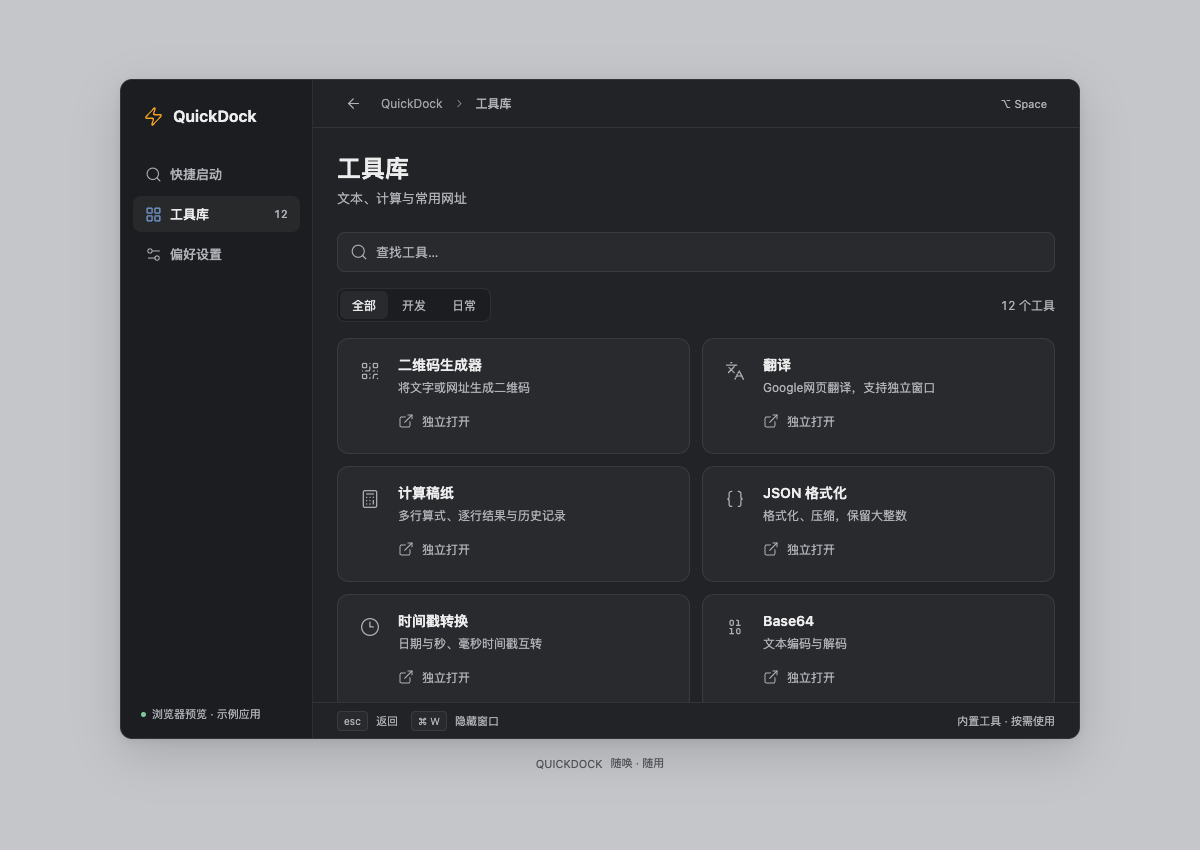
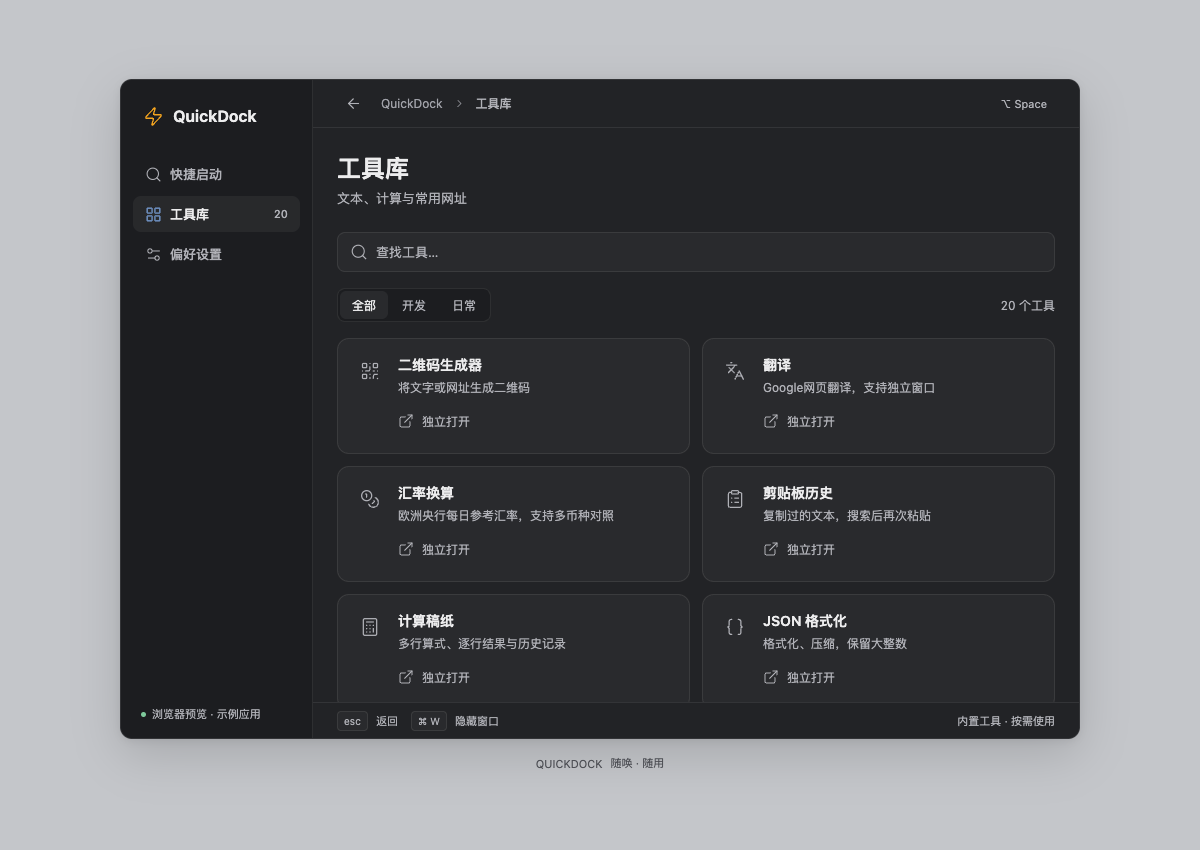
Document launcher essentials and refresh screenshots
The README covers launch at login, search keywords, file search,
secondary actions, clipboard history, backups and the six new tools.
The validation record lists what was verified natively and what still
needs an installed build or Windows and Linux hardware.

diff --git a/README.md b/README.md
@@ -4,7 +4,7 @@
 
 支持简体中文、日本語、English、繁體中文、Español，默认跟随系统；可在偏好设置切换，保留工具输入。
 
-当前 `online` 分支包含二维码生成器、应用自动索引、Dock 重开清空搜索及应用拼音／英文搜索增强。这些更新尚未发布为新版本；公开稳定版仍为 v0.1.4。
+当前开发分支在 `online` 之上新增开机自启动、剪贴板历史、搜索关键词、文件搜索、结果次级操作、配置导入导出，以及正则、JWT、颜色、进制、文本对比、Cron 六个开发工具。这些更新尚未发布为新版本；公开稳定版仍为 v0.1.4。
 
 ## 本地运行
 
@@ -21,17 +21,21 @@ open /Applications/QuickDock.app
 - macOS／Windows／Linux X11 唤起跟随鼠标所在屏幕；Wayland 由桌面系统安排窗口位置。
 - 空搜索展示最近使用的应用／工具，方向键选择，Enter 执行；支持中文、全拼、拼音首字母、英文名及英文缩写；例如微信可输入 `weixin`／`wx`／`wechat`，系统设置可输入 `xtsz`／`systemsettings`。支持空格、大小写与全角输入；网址仍支持别名。
 - 输入无应用匹配时，提供 Google 搜索与翻译快捷项；搜索使用默认浏览器，翻译保留在当前 Dock。设置可分别关闭这两个入口。
+- 搜索关键词：常用网址的 URL 含 `{query}`（或粘贴浏览器式 `%s`）即成为关键词，例如别名 `gh` + `https://github.com/search?q={query}`，在 Dock 输入 `gh rust` 直接搜索；只输入 `gh` 时 Enter／Tab 补全为 `gh `。设置中提供 GitHub、百度、Bing、Wikipedia 等常用搜索预设。
+- 文件搜索：输入 `f 名称`（或 `find`／`文件`）搜索主目录中的文件，Enter 用默认应用打开。macOS 使用 Spotlight，Windows 使用 Windows Search 索引，Linux 使用 plocate／locate；隐藏目录、`node_modules` 和 `~/Library` 等缓存不显示。若 `f` 已是某个网址关键词，则关键词优先。
+- 次级操作：`⌘↵`（Windows／Linux 为 `Ctrl+↵`）在访达／资源管理器中显示应用或文件，对网址则复制链接；底部提示当前所选项的操作。
 - 顶部设置按钮或 `⌘ ,` 进入设置；底部“全部工具”进入工具库。
 - 工具页占满窗口，不展示应用侧边栏和导航。Esc 回紧凑 Dock，Dock 再按 Esc 隐藏；独立工具 Esc 保存后关闭。`⌘ W` 隐藏；重新唤起清空搜索并回到紧凑 Dock，工具草稿仍在本次会话保留。
 - 启动器失焦隐藏；工具和设置失焦保留。菜单栏闪电图标 可打开、刷新索引或退出。
 - 每 3 秒轻量检查应用安装目录，新增、移除或更新入口后自动刷新索引；唤起时立即检查，5 分钟兜底同步，手动刷新仍可用。
 - 重复启动只唤起原实例。
+- 设置中可开启开机自动启动：macOS 通过 `SMAppService` 登记（需在“系统设置 › 登录项”允许时会提示并给出入口，应用须位于“应用程序”文件夹），Windows 写入当前用户 `Run` 项，Linux 写入 `~/.config/autostart/quickdock.desktop`。开机启动时保持隐藏，不弹出窗口。
 
 macOS `.app` 使用 ad-hoc 签名，不含 Developer ID 签名或公证。内置自动更新检查与手动下载安装，发布包校验 SHA256；详情见 [自动更新](docs/UPDATES.md)。无需前端开发服务器即可运行。
 
 ![原生启动面板](docs/screenshots/07-native-launcher.png)
 
-## 十三类内置工具
+## 二十类内置工具
 
 | 工具 | 已实现功能 |
 | --- | --- |
@@ -47,7 +51,14 @@ macOS `.app` 使用 ad-hoc 签名，不含 Developer ID 签名或公证。内置
 | 文本哈希 | MD5、SHA1、SHA256、SHA512 |
 | 单位换算 | 长度、质量、温度、面积、体积、速度、容量；十进制／二进制分别标明 |
 | 文本处理 | 大小写、逐行 trim、删空行、去重、自然排序、Unicode 字符／行／UTF-8 字节统计 |
-| 常用网址 | 名称、URL、别名增删改；搜索和默认浏览器打开；仅 HTTP(S) |
+| 常用网址 | 名称、URL、别名增删改；搜索和默认浏览器打开；仅 HTTP(S)；URL 含 `{query}` 时成为搜索关键词，提供常用搜索预设 |
+| 剪贴板历史 | 默认关闭，开启后记录复制的文本（最多200条，单条≤100KB），搜索、固定（最多50条）、单条删除、清空未固定项；Enter 写回剪贴板并隐藏 Dock 以便粘贴；跳过密码管理器标记为隐藏的内容 |
+| 正则测试 | JavaScript 正则，匹配高亮、编号与命名分组、`$1`／`$<name>` 替换预览；在后台 Worker 中匹配，3 秒超时防止灾难性回溯卡死 |
+| JWT 解码 | 头部／载荷格式化（保留大整数）、算法、iat／nbf／exp 时间与过期状态；只解码不验签，支持 Bearer 前缀，拒绝 JWE |
+| 颜色转换 | 任意 CSS 颜色（HEX、rgb()、hsl()、oklch()、颜色名），输出 HEX／RGB／HSL／OKLCH，取色器，白底／黑底 WCAG 对比度与等级 |
+| 进制转换 | 任意大小整数（BigInt），自动识别 0x／0o／0b，二、八、十、十六、三十六进制互转，分组显示、复制无空格 |
+| 文本对比 | Myers 逐行差异，双侧行号，可忽略空白差异，交换左右；最多20000行／2000处差异 |
+| Cron 表达式 | 5 段标准语法（名称、列表、范围、步长、@daily 等宏），字段解析，按本地或 UTC 预览接下来 10 次运行；日期与星期同时限定时按 Vixie 规则“满足其一” |
 
 没有外部插件 SDK、商店或 uTools 兼容层。新增内置工具通过 `frontend/src/catalog.ts` 的 `ToolDefinition` 注册，纯转换逻辑在 `frontend/src/tools/` 中。
 
@@ -61,6 +72,8 @@ Windows 读取开始菜单／桌面快捷方式和已注册应用，ShellExecute
 - 配置和使用记录：`~/Library/Application Support/QuickDock/settings.json`。
 - 应用缓存：同目录 `apps.json`。JSON 带版本，原子写入；损坏配置保留 `.corrupt-时间戳` 备份并恢复默认，未知未来版本禁止覆盖。
 - Dock内普通工具未保存的输入仅保留本次会话；独立窗口输入自动保存到`tool-windows/`；内部内存回收通过当前 WebView 会话历史临时传递草稿。
+- 剪贴板历史写入同目录 `clipboard.json`（仅在开启后），版本化原子 JSON，最多200条、约4MiB；macOS／Windows 轮询系统剪贴板变更计数，只在复制后读取，开启前已在剪贴板的内容不记录；Linux 每1.5秒比较文本，Wayland 下可能只在 QuickDock 获得焦点时可读。
+- 配置导入导出：设置页“备份与迁移”导出语言、外观、快捷键、工具开关、常用网址和世界时钟；使用记录与各类历史不导出。导入前确认，快捷键在本机不可用时保留当前快捷键。
 - 明确保存的计算历史写入同目录 `calculations.json`，版本化原子JSON，最多100份／约8MiB。单稿纸最多200行／20000字符，重启后保留；浏览器预览历史独立保存在localStorage。
 - 翻译通过原生WebView直接展示Google翻译网页，网页内输入交给Google处理；不再调用公共翻译API。独立页保存当前原文／语言，Google网页可能要求网站验证。详见[网页翻译验证](docs/GOOGLE-WEB-VALIDATION.md)。
 - 浏览器预览明确使用示例应用，不能启动本机应用。原生版本通过 Wails 生成的类型绑定调用 Go。
@@ -81,7 +94,7 @@ pnpm --dir frontend install --frozen-lockfile
 
 ```sh
 pnpm --dir frontend dev                 # 浏览器预览，127.0.0.1:3415
-pnpm --dir frontend test                # 30 项逻辑测试
+pnpm --dir frontend test                # 57 项逻辑测试
 pnpm --dir frontend test:e2e            # Chrome 交互及搜索性能
 MACOSX_DEPLOYMENT_TARGET=13.0 \
 CGO_CFLAGS='-mmacosx-version-min=13.0' \
@@ -102,7 +115,7 @@ swift scripts/native-smoke.swift <QuickDock进程PID> "$PWD/bin/QuickDock.app/Co
 具体通过项、测量口径和未完成的人工验收见 [验证记录](docs/VALIDATION.md)。
 
 
-Dock翻译及计算历史的新增验收、截图和网络边界见 [新增功能验证](docs/ONLINE-NOTEBOOK-VALIDATION.md)。
+Dock翻译及计算历史的新增验收、截图和网络边界见 [新增功能验证](docs/ONLINE-NOTEBOOK-VALIDATION.md)。开机启动、剪贴板历史、文件搜索与六个开发工具的验证见 [启动器增强验证](docs/LAUNCHER-ESSENTIALS-VALIDATION.md)。
 
 ### 独立工具窗口
 

diff --git a/docs/LAUNCHER-ESSENTIALS-VALIDATION.md b/docs/LAUNCHER-ESSENTIALS-VALIDATION.md
@@ -1,0 +1,24 @@
+# 启动器增强与开发工具
+
+2026-11-20，本地开发验证，分支 `feat/launcher-essentials`；未创建新版本标签或发布 Release。
+
+本轮新增：开机自启动、搜索关键词（`{query}` 网址）、结果次级操作（`⌘↵`／`Ctrl+↵`）、剪贴板历史（默认关闭）、文件搜索（`f 名称`）、配置导入导出，以及正则测试、JWT 解码、颜色转换、进制转换、文本对比、Cron 表达式六个工具。内置工具由十三类增至二十类，五种界面语言同步补齐。
+
+验证：
+
+- 57 个 Vitest 测试通过。新增覆盖：关键词 URL 规范化与转义、域名中占位符拒绝、关键词优先于句子翻译；剪贴板排序与搜索；正则分组／替换／零宽匹配；JWT Base64URL、大整数、过期判断与 JWE 拒绝；颜色 HEX／rgb／hsl 解析、OKLCH 已知值与 WCAG 对比度；BigInt 进制与前缀歧义；文本对比 300 轮随机输入校验可还原两侧文本且编辑数等于 LCS 最小值；Cron 名称、步长、Vixie 日期／星期规则、UTC 跨周末与“2 月 30 日永不运行”。
+- 40 个 Playwright 场景全量通过（本地 Chrome）。新增：六个工具的交互；正则灾难性回溯在 V8 中由 Worker 3 秒超时中止；关键词 Tab 补全、搜索行选中与打开地址；剪贴板开启前不记录、开启后记录 QuickDock 复制并可固定；配置导出文件不含使用记录，导入后常用网址与世界时钟还原。
+- Go `-race` 全量通过。新增：XDG autostart `Exec` 引号转义、剪贴板去重／固定保留／条数与字节上限／损坏文件拒绝覆盖、固定上限 50、清空保留固定项、关键词 URL 转义、配置文件校验、文件结果排序与缓存目录过滤。
+- 原生探针 `scripts/test-native-launcher-essentials.sh`（隔离设置，与已安装的 QuickDock 并行运行，不打开文件、不登记登录项）在本机通过：剪贴板关闭时与开启前已有内容均不记录；`pbcopy` 文本一个轮询周期内记录；`org.nspasteboard.ConcealedType` 内容跳过；重复复制只移到最前；写回条目后 `pbpaste` 一致；Spotlight 搜索 `quickdock` 约 1.1 秒返回 6 项且无 `~/Library` 或隐藏目录；不在最近搜索结果中的路径拒绝打开；正则工具在 WebKit Worker 中运行。脚本运行前快照全部剪贴板类型（含 HTML），结束后按原样恢复。
+- WebKit 的正则引擎在回溯上限处直接返回“无匹配”，不会卡住；V8（Chrome 预览、Windows WebView2）依赖 Worker 超时。两种结果探针均接受。
+- 本机 arm64 `.app` 构建及 `codesign --verify` 通过。Windows／Linux amd64 交叉编译通过。
+- 浏览器预览截图已目视检查（正则、JWT、颜色、进制、文本对比、Cron、剪贴板空状态与列表、关键词搜索），无裁切或重叠。
+
+未完成的验收：
+
+1. 开机自启动未在真实安装中登记验证。未打包运行的探针读取 `SMAppService` 状态为不支持（符合预期：非应用包）；登记、系统设置中的“允许”提示与登录后保持隐藏，需要把新版本安装到“应用程序”并重新登录确认。
+2. `⌘↵` 在访达中显示应用或文件会打开访达窗口，未在探针中执行；键盘事件已由浏览器测试覆盖。
+3. Windows 的启动项、剪贴板序列号与排除格式、Windows Search 文件搜索、资源管理器 `/select`，以及 Linux 的 autostart、剪贴板文本轮询、plocate 搜索与 FileManager1 显示，仅交叉编译通过，未做实机 GUI 验收。
+4. 翻译词典新增约 170 条，主包从 387 KB 增至 447 KB（gzip 151 KB），主要来自词典；按语言拆分词典留作后续优化。
+
+交付 `bin/QuickDock.app`；未替换 `/Applications` 中正在运行的副本，版本仍为开发基线 0.1.4。
